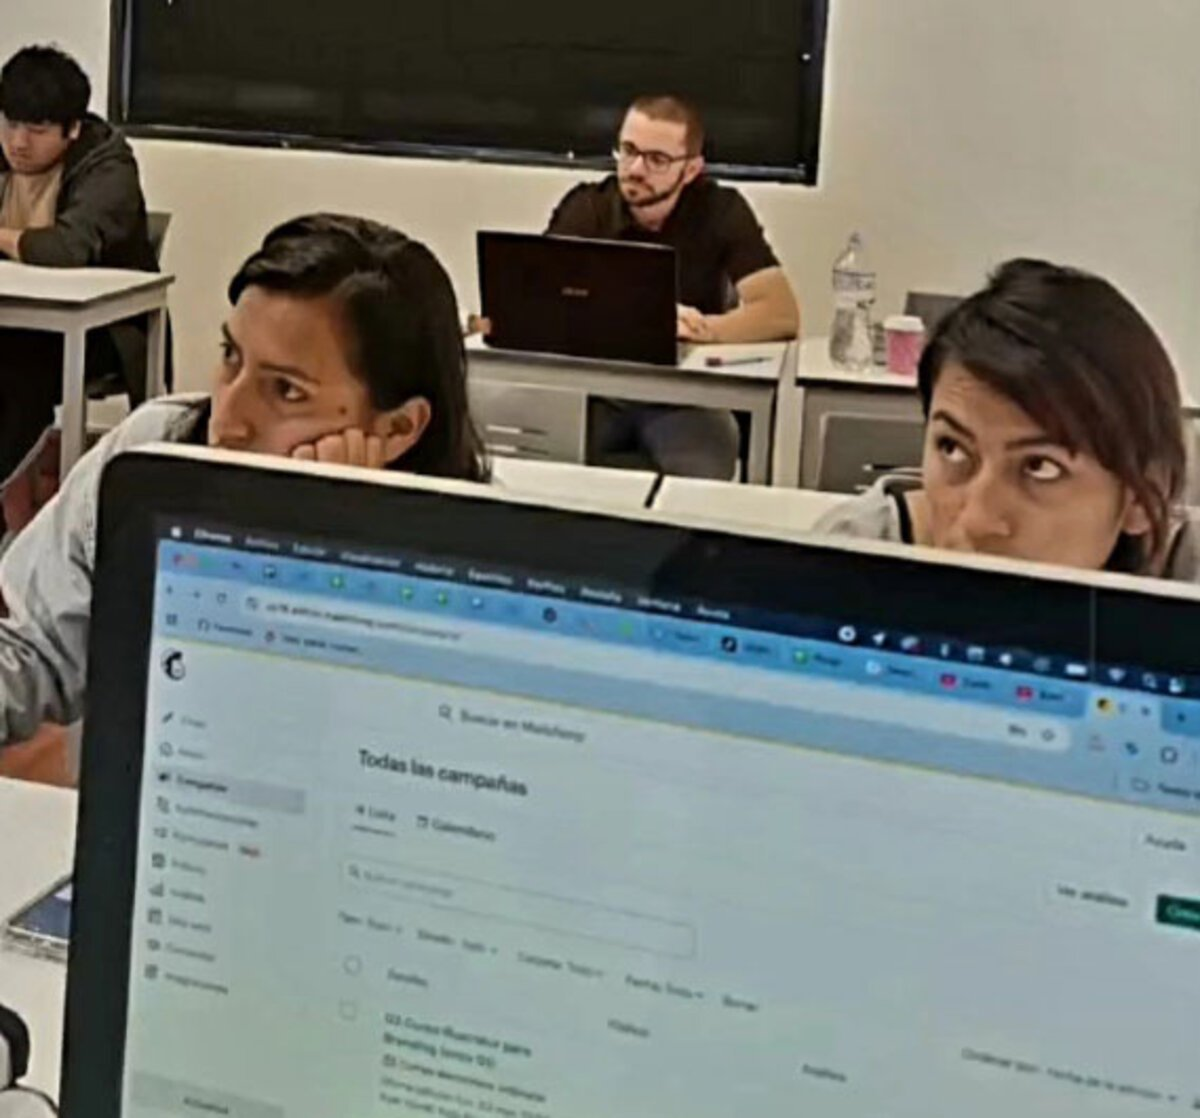
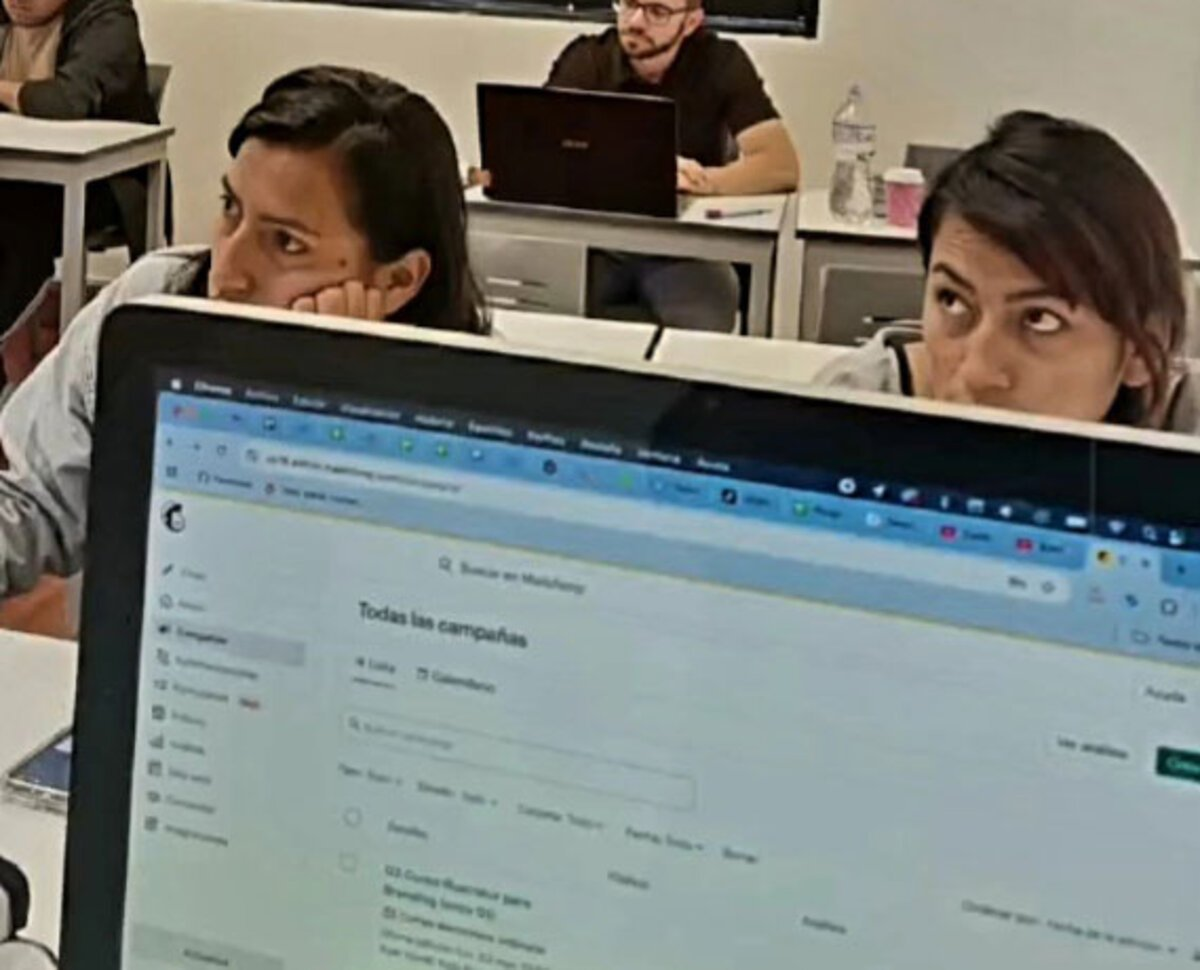
Crop Lima course photo more horizontally to match Education row height

diff --git a/Portfolio Home.dc.html b/Portfolio Home.dc.html
@@ -576,7 +576,7 @@
         <figure style="margin: 0; display: flex; flex-direction: column; gap: 10px"><img src="assets/felix-benito-nng-ux-leader-course.jpg" alt="Felix Benito attending the NN/g UX Leader course on a video call, viewing the Essential Skills for Any UX Practitioner session" width="1200" height="674" loading="lazy" style="width: 100%; height: auto; object-fit: contain; border-radius: 2px" /><figcaption style="font-size: 13px; line-height: 1.5; color: rgba(242,240,236,0.62)">Live session from the NN/g UX Leader course, part of the certification I'm completing now.</figcaption></figure>
         <figure style="margin: 0; display: flex; flex-direction: column; gap: 10px"><img src="assets/felix-benito-google-ux-certificate.jpg" alt="Google Foundations of User Experience (UX) Design course certificate issued to Felix Benito through Coursera" width="1200" height="927" loading="lazy" style="width: 100%; height: auto; object-fit: contain; border-radius: 2px" /><figcaption style="font-size: 13px; line-height: 1.5; color: rgba(242,240,236,0.62)">My certificate for Google's Foundations of UX Design, completed through Coursera.</figcaption></figure>
         <figure style="margin: 0; display: flex; flex-direction: column; gap: 10px"><img src="assets/felix-benito-product-discovery-notes.jpg" alt="Handwritten study notes on product discovery beside an open copy of Inspired, on product-discovery principles" width="1200" height="700" loading="lazy" style="width: 100%; height: auto; object-fit: contain; border-radius: 2px" /><figcaption style="font-size: 13px; line-height: 1.5; color: rgba(242,240,236,0.62)">Notes on product discovery, written by hand while reading Inspired.</figcaption></figure>
-        <figure style="margin: 0; display: flex; flex-direction: column; gap: 10px"><img src="assets/felix-benito-marketing-course-lima.jpg" alt="Felix Benito in an in-person digital marketing course in Lima, Peru, with the class working through a live campaign on screen" width="1200" height="1118" loading="lazy" style="width: 100%; height: auto; object-fit: contain; border-radius: 2px" /><figcaption style="font-size: 13px; line-height: 1.5; color: rgba(242,240,236,0.62)">In-person digital marketing course in Lima, Peru, running real campaigns in the classroom.</figcaption></figure>
+        <figure style="margin: 0; display: flex; flex-direction: column; gap: 10px"><img src="assets/felix-benito-marketing-course-lima.jpg" alt="Felix Benito in an in-person digital marketing course in Lima, Peru, with the class working through a live campaign on screen" width="1200" height="970" loading="lazy" style="width: 100%; height: auto; object-fit: contain; border-radius: 2px" /><figcaption style="font-size: 13px; line-height: 1.5; color: rgba(242,240,236,0.62)">In-person digital marketing course in Lima, Peru, running real campaigns in the classroom.</figcaption></figure>
       </div>
       <p style="font-size: 15px; line-height: 1.6; color: #6B6A66; max-width: 62ch; margin-top: 6px">I stay in constant development: taking courses and workshops, reading and summarizing books by hand, which is how I hold on to what I learn.</p>
     </div>

diff --git a/index.html b/index.html
@@ -596,7 +596,7 @@
         <figure style="margin: 0; display: flex; flex-direction: column; gap: 10px"><img src="assets/felix-benito-nng-ux-leader-course.jpg" alt="Felix Benito attending the NN/g UX Leader course on a video call, viewing the Essential Skills for Any UX Practitioner session" width="1200" height="674" loading="lazy" style="width: 100%; height: auto; object-fit: contain; border-radius: 2px" /><figcaption style="font-size: 13px; line-height: 1.5; color: rgba(242,240,236,0.62)">Live session from the NN/g UX Leader course, part of the certification I'm completing now.</figcaption></figure>
         <figure style="margin: 0; display: flex; flex-direction: column; gap: 10px"><img src="assets/felix-benito-google-ux-certificate.jpg" alt="Google Foundations of User Experience (UX) Design course certificate issued to Felix Benito through Coursera" width="1200" height="927" loading="lazy" style="width: 100%; height: auto; object-fit: contain; border-radius: 2px" /><figcaption style="font-size: 13px; line-height: 1.5; color: rgba(242,240,236,0.62)">My certificate for Google's Foundations of UX Design, completed through Coursera.</figcaption></figure>
         <figure style="margin: 0; display: flex; flex-direction: column; gap: 10px"><img src="assets/felix-benito-product-discovery-notes.jpg" alt="Handwritten study notes on product discovery beside an open copy of Inspired, on product-discovery principles" width="1200" height="700" loading="lazy" style="width: 100%; height: auto; object-fit: contain; border-radius: 2px" /><figcaption style="font-size: 13px; line-height: 1.5; color: rgba(242,240,236,0.62)">Notes on product discovery, written by hand while reading Inspired.</figcaption></figure>
-        <figure style="margin: 0; display: flex; flex-direction: column; gap: 10px"><img src="assets/felix-benito-marketing-course-lima.jpg" alt="Felix Benito in an in-person digital marketing course in Lima, Peru, with the class working through a live campaign on screen" width="1200" height="1118" loading="lazy" style="width: 100%; height: auto; object-fit: contain; border-radius: 2px" /><figcaption style="font-size: 13px; line-height: 1.5; color: rgba(242,240,236,0.62)">In-person digital marketing course in Lima, Peru, running real campaigns in the classroom.</figcaption></figure>
+        <figure style="margin: 0; display: flex; flex-direction: column; gap: 10px"><img src="assets/felix-benito-marketing-course-lima.jpg" alt="Felix Benito in an in-person digital marketing course in Lima, Peru, with the class working through a live campaign on screen" width="1200" height="970" loading="lazy" style="width: 100%; height: auto; object-fit: contain; border-radius: 2px" /><figcaption style="font-size: 13px; line-height: 1.5; color: rgba(242,240,236,0.62)">In-person digital marketing course in Lima, Peru, running real campaigns in the classroom.</figcaption></figure>
       </div>
       <p style="font-size: 15px; line-height: 1.6; color: #6B6A66; max-width: 62ch; margin-top: 6px">I stay in constant development: taking courses and workshops, reading and summarizing books by hand, which is how I hold on to what I learn.</p>
     </div>
